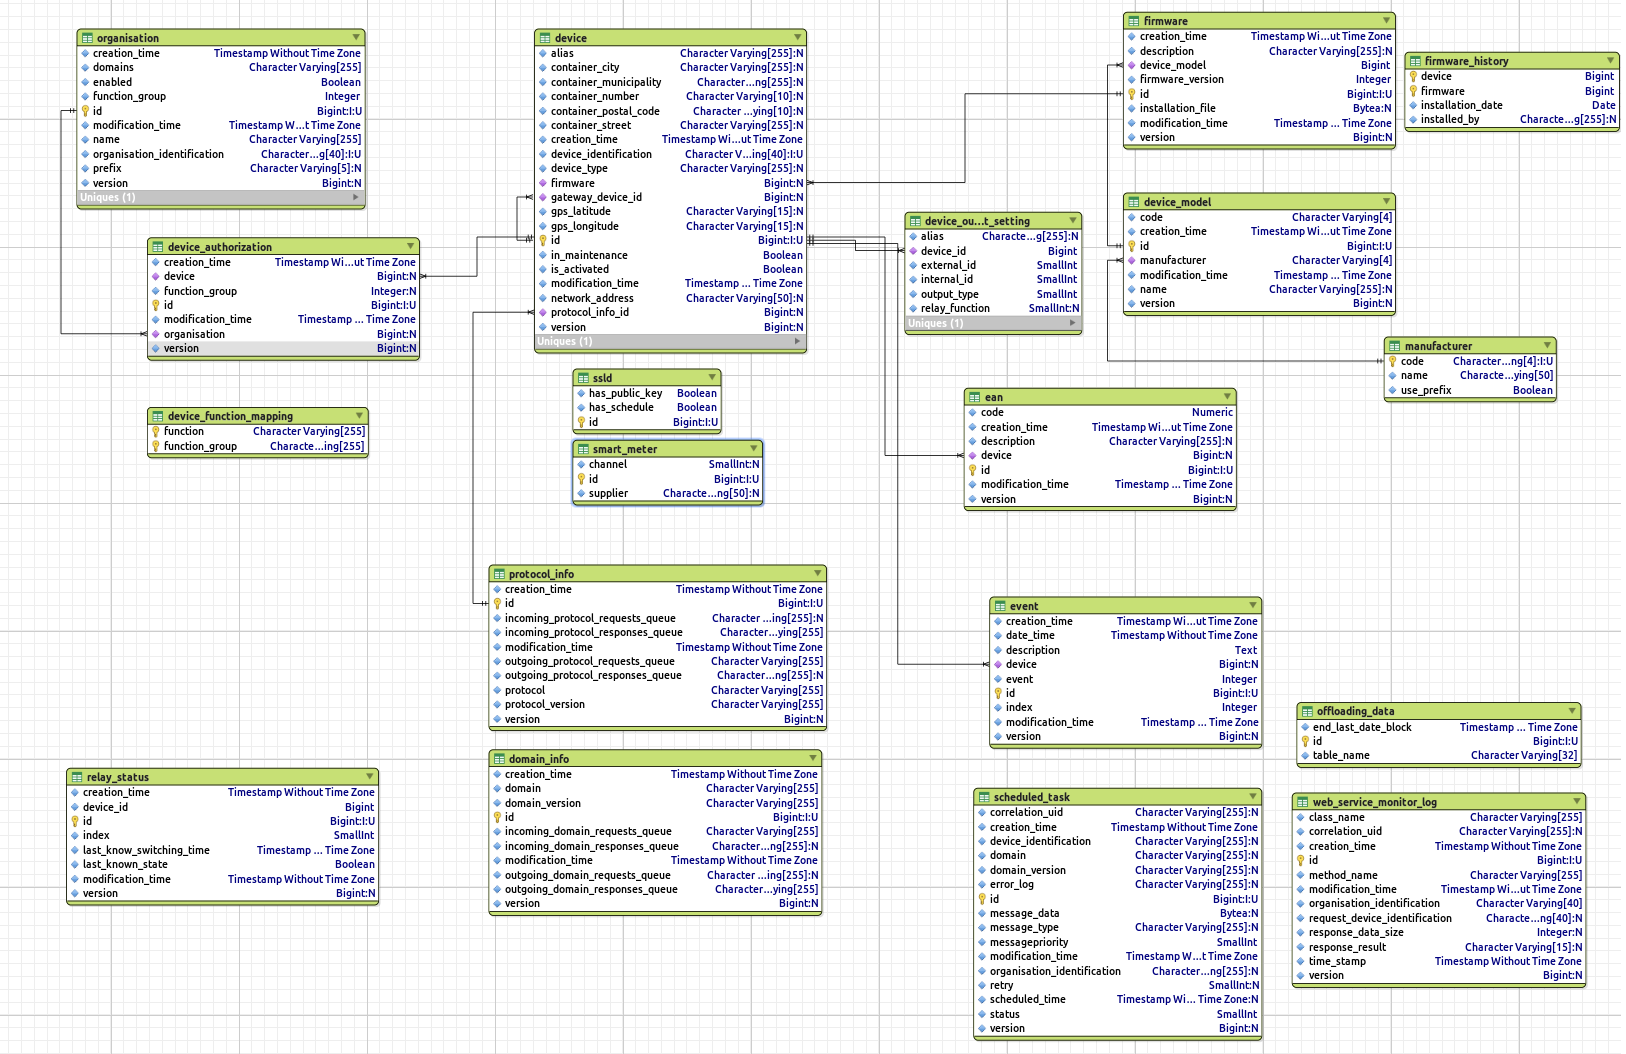
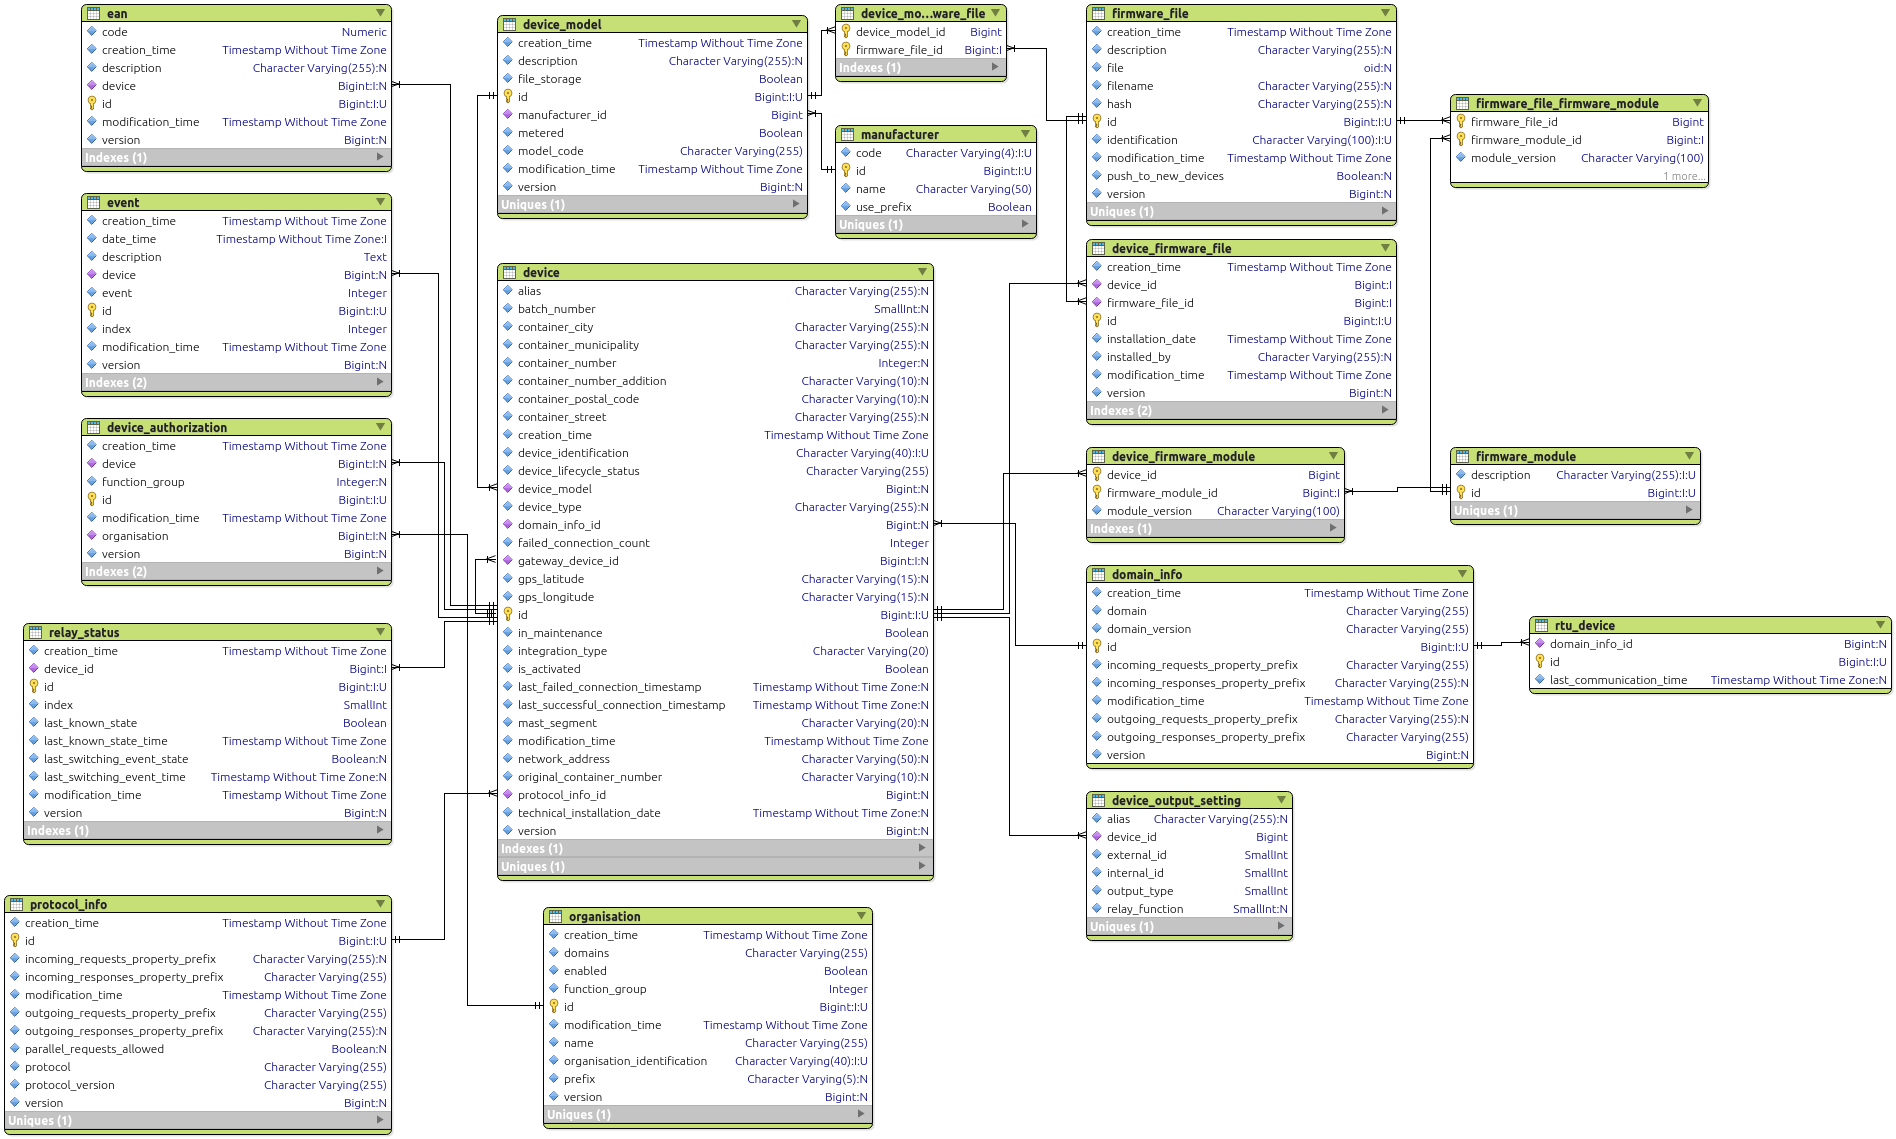
New ERD's for GXF

diff --git a/Architecture/Platform-components-description.md b/Architecture/Platform-components-description.md
@@ -54,11 +54,14 @@ The Core component routes messages from domain adapter components to protocol ad
 
 The internal database model in the core layer:
 ![alt text](./Core-datamodel/OSGP-core-model.png "Core model")
-![alt text](./Core-datamodel/OSGP-core-logging-and-monitor-model.png "Logging and monitor model")
-![alt text](./Core-datamodel/OSGP-core-OSLP-device-model.png "Device model")
+
+![alt text](./Core-datamodel/OSGP-core-additional-tables.png "Additional tables core")
+
+_ERD's made with Valetina Studio_
 
 
-_Image, Overview of platform data model_
+**Overview of platform data model:**
+
 ![alt text](./data-model.png "Data Model")
 
 Data model explanation:
